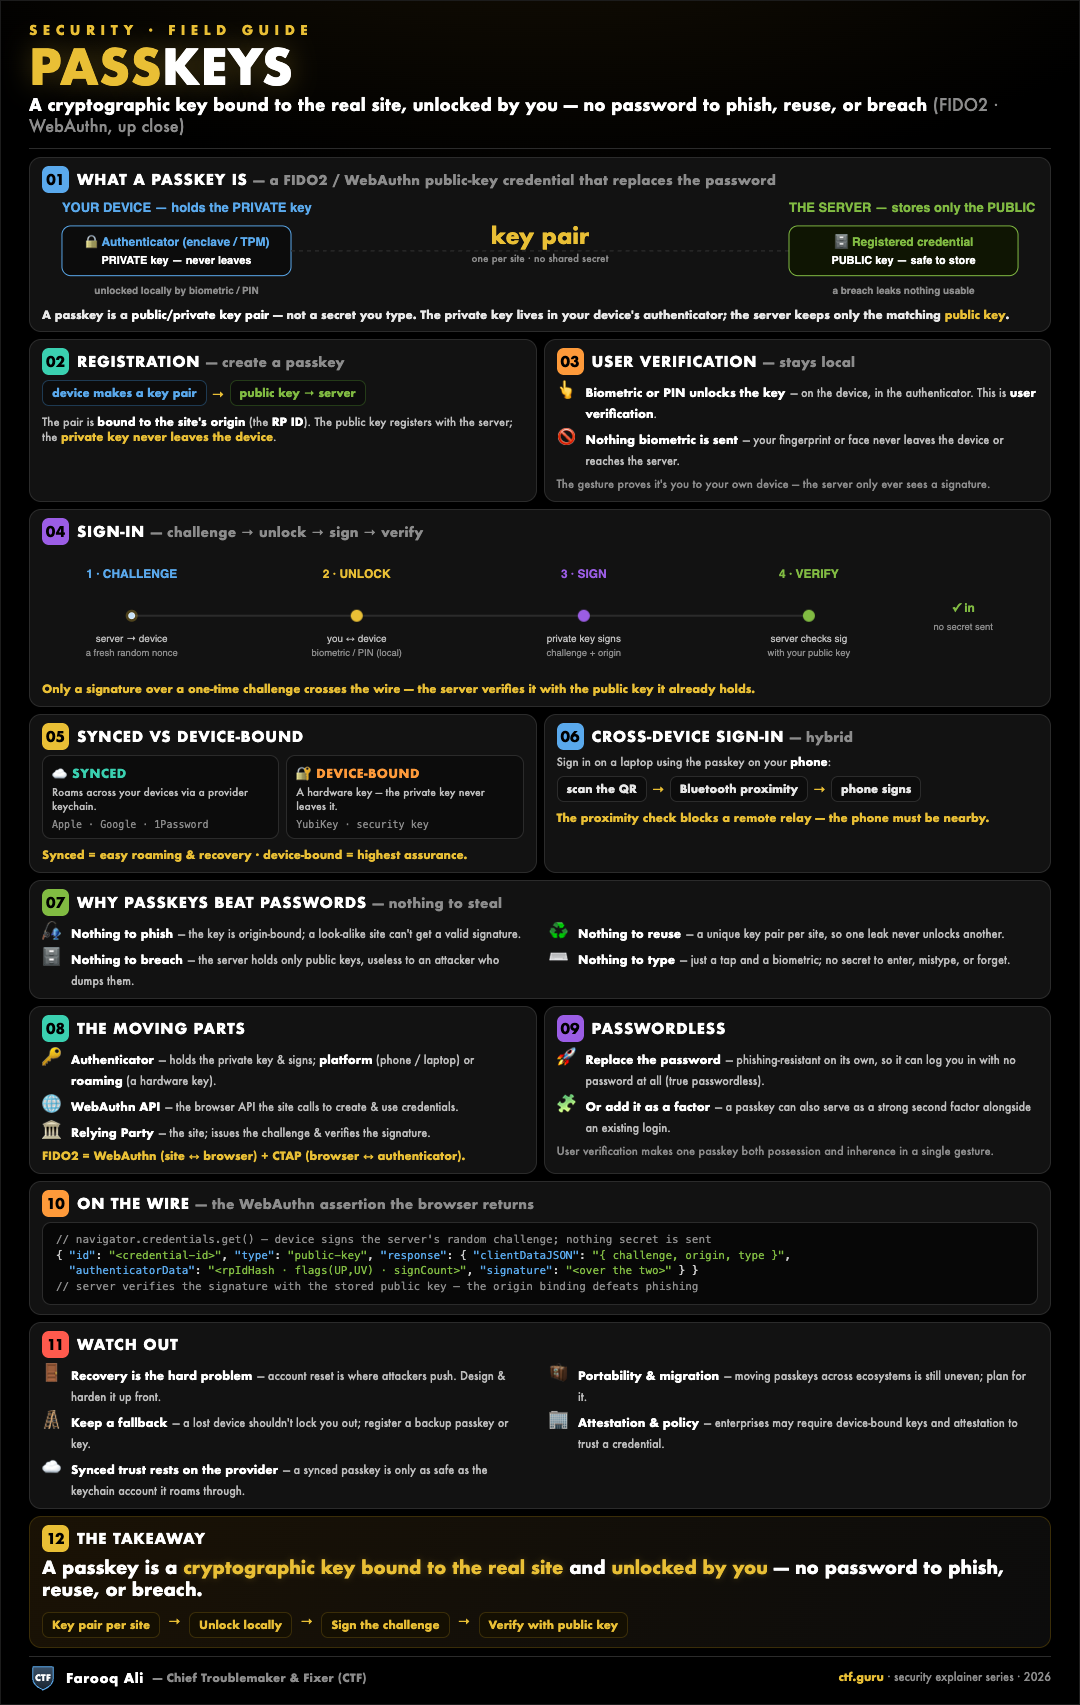
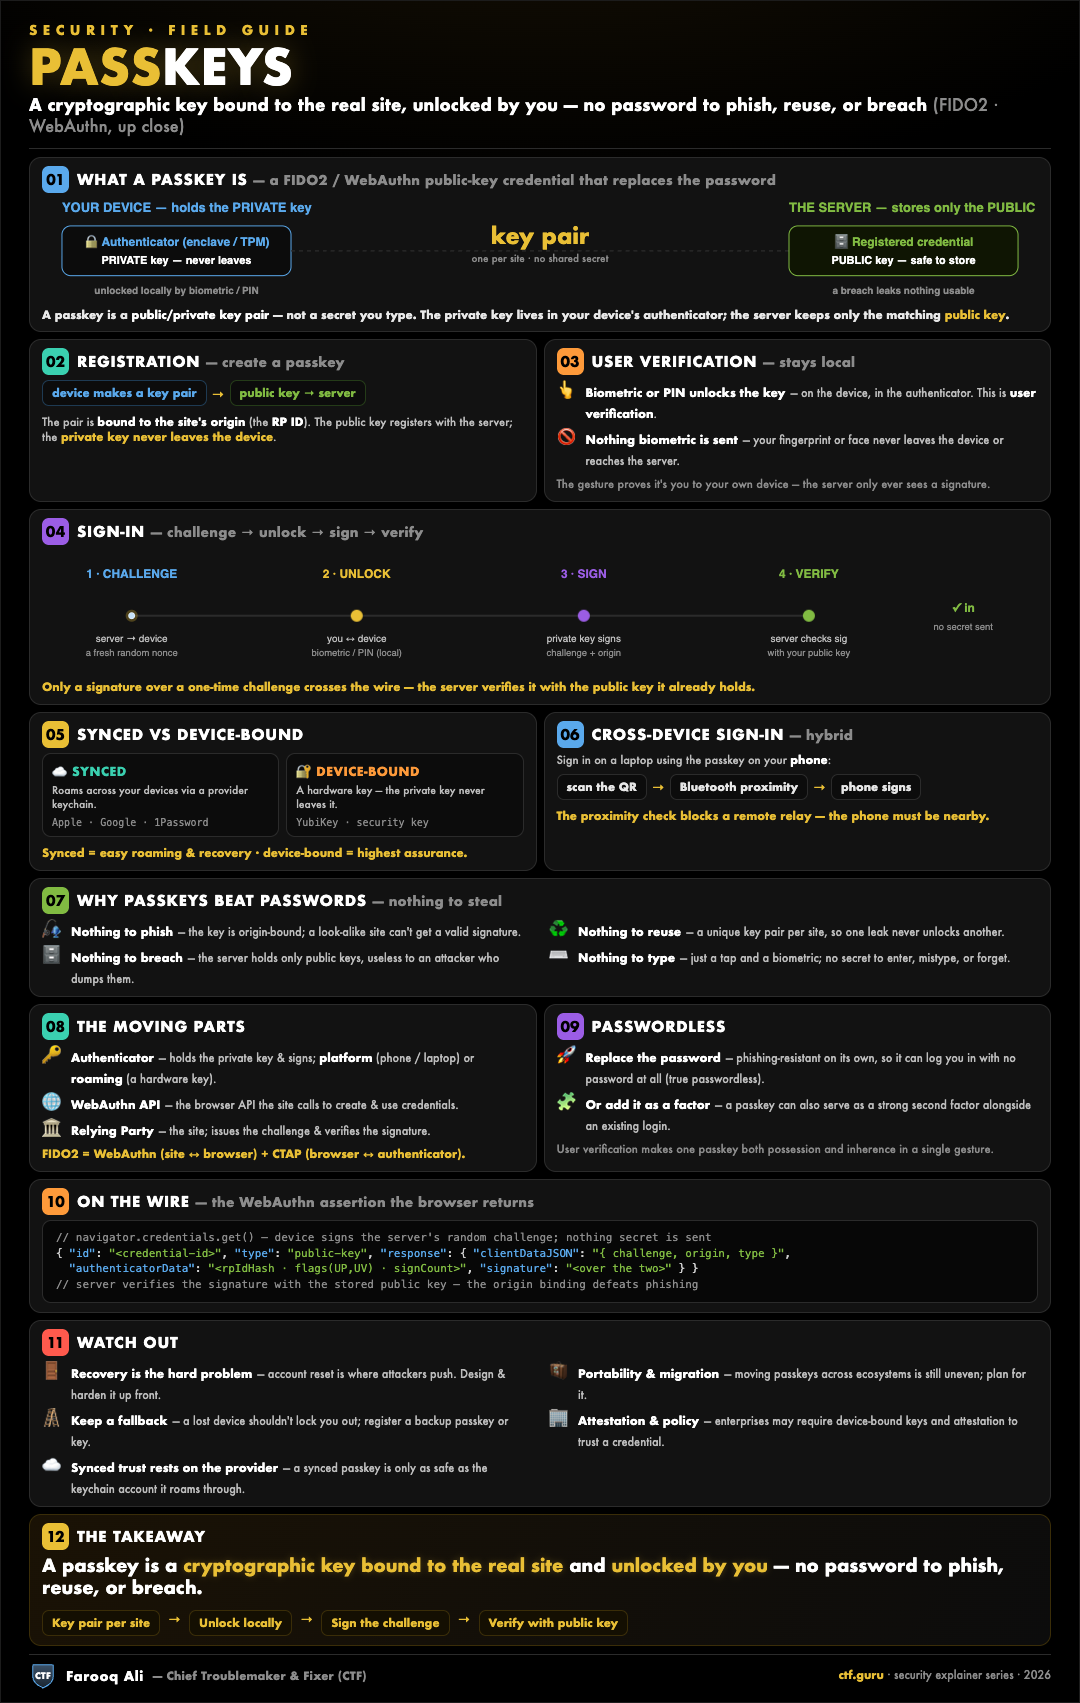
passkeys: final trimmed version

diff --git a/passkeys-poster.html b/passkeys-poster.html
@@ -100,7 +100,7 @@
         <text x="925" y="62" text-anchor="middle" fill="#81BB42" font-size="12" font-weight="800" font-family="Century Gothic, sans-serif">✓ in</text>
         <text x="925" y="80" text-anchor="middle" fill="#8c8c8c" font-size="9.5" font-family="Century Gothic, sans-serif">no secret sent</text>
       </svg>
-      <p style="margin-top:7px"><span class="em">Only a signature over a one-time challenge crosses the wire — the server verifies it with the public key it already holds.</span></p>
+      <p style="margin-top:5px"><span class="em">Only a signature over a one-time challenge crosses the wire — the server verifies it with the public key it already holds.</span></p>
     </div>
 
     <!-- 05 SYNCED vs DEVICE-BOUND -->